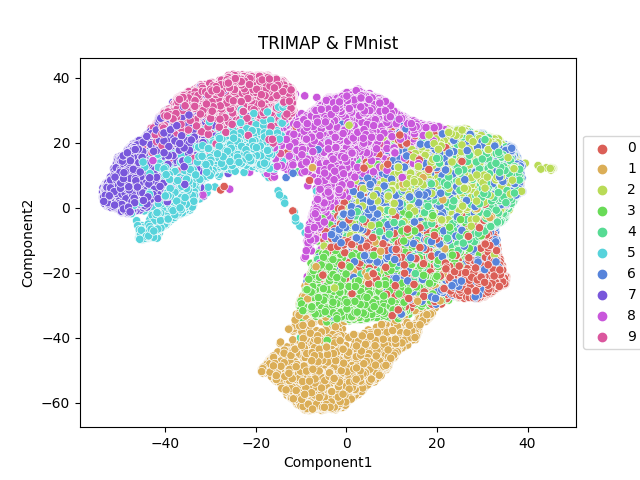
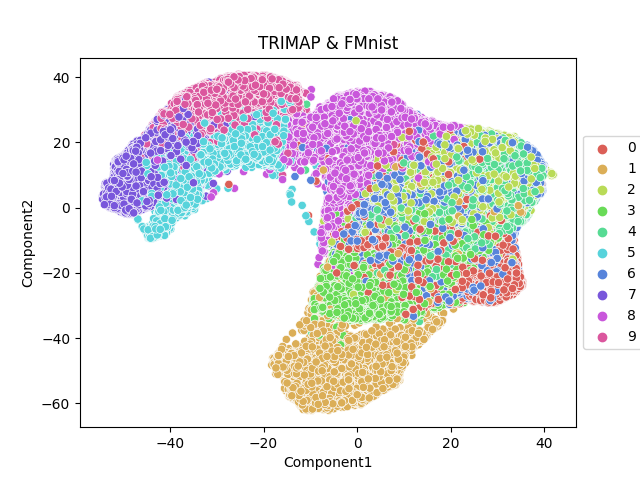
Apply algorithms to datasets

diff --git a/project/algorithms/algorithms.py b/project/algorithms/algorithms.py
@@ -4,13 +4,75 @@ import pandas as pd
 import seaborn as sns
 import pacmap
 import trimap
+import umap
+import numpy as np
 from numpy.typing import ArrayLike
-from sklearn.manifold import Isomap
+
+pacmap_args = {
+    'FMnist': {
+        'n_components': 2,
+        'n_neighbors': 15,
+        'MN_ratio': 1.5,
+        'distance': 'euclidean',
+        'random_state': 45
+    }, "Smallnorb": {
+        'n_components': 2,
+        'n_neighbors': 20,
+        'FP_ratio': 0.2,
+        'MN_ratio': 3.0,
+        'distance': 'angular',
+        'num_iters': 1000,
+        'random_state': 45
+    }, 'Reuters': {
+        'n_components': 2,
+        'n_neighbors': 10,
+        'MN_ratio': 1.5,
+        'distance': 'cosine',
+        'random_state': 45
+    }
+}
+
+trimap_args = {
+    'FMnist': {
+        'n_dims': 2,
+        'distance': 'euclidean'
+    }, "Smallnorb": {
+        'n_dims': 2,
+        'n_inliers': 20,
+        'n_outliers': 10,
+        'n_random': 10,
+        'distance': 'cosine'
+    }, 'Reuters': {
+        'n_dims': 2,
+        'distance': 'cosine'
+    }
+}
+
+umap_args = {
+    'FMnist': {
+        'n_components': 2,
+        'n_neighbors': 15,
+        'spread': 1.4,
+        'metric': 'euclidean',
+        'random_state': 45
+    }, "Smallnorb": {
+        'n_components': 2,
+        'n_neighbors': 20,
+        'spread': 0.3,
+        'metric': 'cosine',
+        'random_state': 45
+    }, 'Reuters': {
+        'n_components': 2,
+        'n_neighbors': 10,
+        'spread': 0.4,
+        'metric': 'cosine',
+        'random_state': 45
+    },
+}
 
 
 def execute_pacmap(x: ArrayLike, y: ArrayLike, dataset_name: str):
-    # embedding = pacmap.PaCMAP(n_components=2, n_neighbors=14, FP_ratio=2.2, MN_ratio=0.8)
-    embedding = pacmap.PaCMAP(n_components=2, n_neighbors=25, FP_ratio=0.2, MN_ratio=2.5, distance='angular')
+    embedding = pacmap.PaCMAP(**pacmap_args.get(dataset_name))
     logging.info("PaCMAP has been launched.")
     x_transformed = embedding.fit_transform(x)
     logging.info("PaCMAP was completed.")
@@ -18,19 +80,19 @@ def execute_pacmap(x: ArrayLike, y: ArrayLike, dataset_name: str):
 
 
 def execute_trimap(x: ArrayLike, y: ArrayLike, dataset_name: str):
-    embedding = trimap.TRIMAP(n_dims=2, n_inliers=18, n_outliers=6, n_random=5, distance='angular')
+    embedding = trimap.TRIMAP(**trimap_args.get(dataset_name))
     logging.info("TRIMAP has been launched.")
     x_transformed = embedding.fit_transform(x)
     logging.info("TRIMAP was completed.")
     __show_result(x_transformed, y, "TRIMAP & " + dataset_name)
 
 
-def execute_isomap(x: ArrayLike, y: ArrayLike, dataset_name: str):
-    embedding = Isomap(n_components=2, n_neighbors=10, neighbors_algorithm='ball_tree')
-    logging.info("Isomap has been launched.")
+def execute_umap(x: ArrayLike, y: ArrayLike, dataset_name: str):
+    embedding = umap.UMAP(**umap_args.get(dataset_name))
+    logging.info("UMAP has been launched.")
     x_transformed = embedding.fit_transform(x)
-    logging.info("Isomap was completed.")
-    __show_result(x_transformed, y, "Isomap & " + dataset_name)
+    logging.info("UMAP was completed.")
+    __show_result(x_transformed, y, "UMAP & " + dataset_name)
 
 
 def __show_result(x_transformed: ArrayLike, y: ArrayLike, chart_title: str):

diff --git a/project/data_loader/data_loader.py b/project/data_loader/data_loader.py
@@ -8,8 +8,10 @@ REUTERS = 'resources/datasets/reuters.csv'
 SMALLNORB = 'resources/datasets/smallnorb.csv'
 
 
-def __load_dataset(path: str, target_idx=-1) -> Tuple[DataFrame, DataFrame]:
+def __load_dataset(path: str, target_idx=-1, drop=None) -> Tuple[DataFrame, DataFrame]:
     dataset = pd.read_csv(path, header=None)
+    if drop is not None:
+        dataset = dataset[dataset.iloc[:, target_idx] <= drop]
     x = dataset.drop(columns=dataset.columns[target_idx])
     y = dataset.iloc[:, target_idx]
     return x, y
@@ -20,7 +22,7 @@ def load_fmnist() -> Tuple[DataFrame, DataFrame]:
 
 
 def load_reuters() -> Tuple[DataFrame, DataFrame]:
-    return __load_dataset(REUTERS)
+    return __load_dataset(REUTERS, drop=8)
 
 
 def load_smallnorb() -> Tuple[DataFrame, DataFrame]:

diff --git a/project/executor.py b/project/executor.py
@@ -16,12 +16,12 @@ def run_algorithms(dataset_loader: Callable, dataset_name: str):
     logging.info("Dataset was fetched to memory.")
     execute_pacmap(x, y, dataset_name)
     execute_trimap(x, y, dataset_name)
-    # execute_isomap(x, y, dataset_name)
+    execute_umap(x, y, dataset_name)
     logging.info(dataset_name + " analyzing & processing was finished.")
 
 
 if __name__ == '__main__':
     set_up_logger()
-    # run_algorithms(load_fmnist, "FMnist")
-    run_algorithms(load_reuters, "Reuters")
+    run_algorithms(load_fmnist, "FMnist")
+    # run_algorithms(load_reuters, "Reuters")
     # run_algorithms(load_smallnorb, "Smallnorb")
